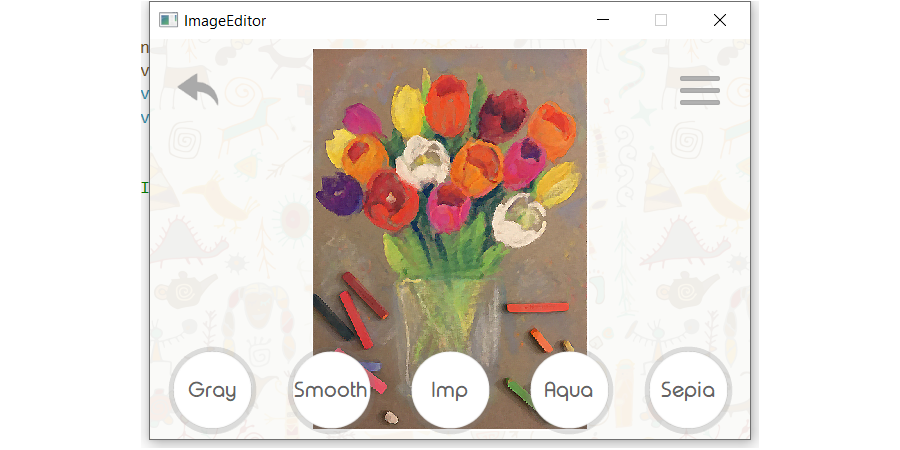
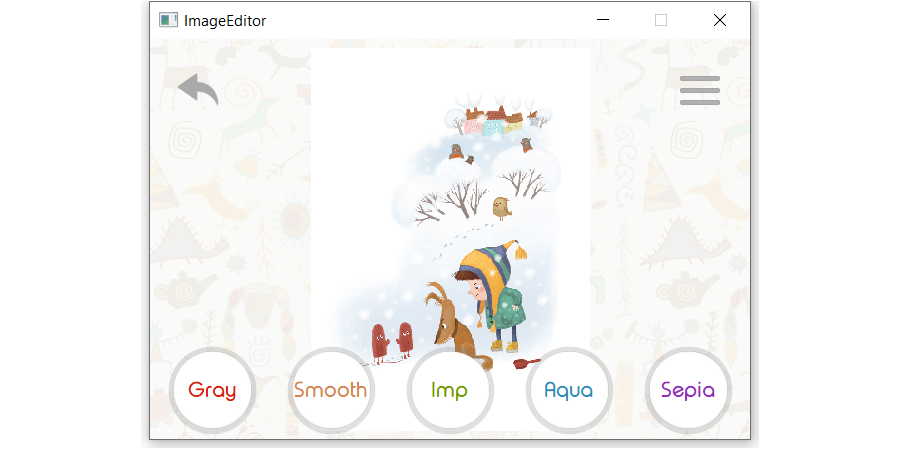
Screens and button text colors

diff --git a/UI/Widgets/FiltersWidget.cpp b/UI/Widgets/FiltersWidget.cpp
@@ -20,9 +20,15 @@ static const int c_button_width = 100;
 static const char* c_filter_button_style_str = "QPushButton{ "
 "background-image: url(:/ImageEditor/round_button);"
 "background-color: rgba(255, 255, 255, 0); "
-"color: rgb(100, 100, 100); "
 "font-size: 21px; "
-"font-family: Typo Round Regular Demo;}";
+"font-family: Typo Round Regular Demo;";
+
+static const char* c_color_str_arr[] = {
+    "color: #D6200C; }",
+    "color: #D1854F; }",
+    "color: #6F9B00; }",
+    "color: #308BB2; }",
+    "color: #8E2DB7; }"};
 
 static const char* c_hover_str_arr[] = {
     "QPushButton:hover{background-image: url(:/ImageEditor/round_button_r); color: rgb(70, 70, 70);}",
@@ -178,10 +184,12 @@ namespace ImageEditor::UI
                 button->setMaximumHeight(button_width);
                 button->setMaximumWidth(button_width);
                 button->setFlat(true);
+                
                 int index = num % std::size(c_hover_str_arr);
                 QString pressed(c_pressed_str_arr[index]);
                 QString hover(c_hover_str_arr[index]);
-                button->setStyleSheet(QString(c_filter_button_style_str) + hover + pressed);
+                QString color(c_color_str_arr[index]);
+                button->setStyleSheet(QString(c_filter_button_style_str) + color + hover + pressed);
               
                 // bind button with control
                 const auto ui_command = new UICommand(this, control);
